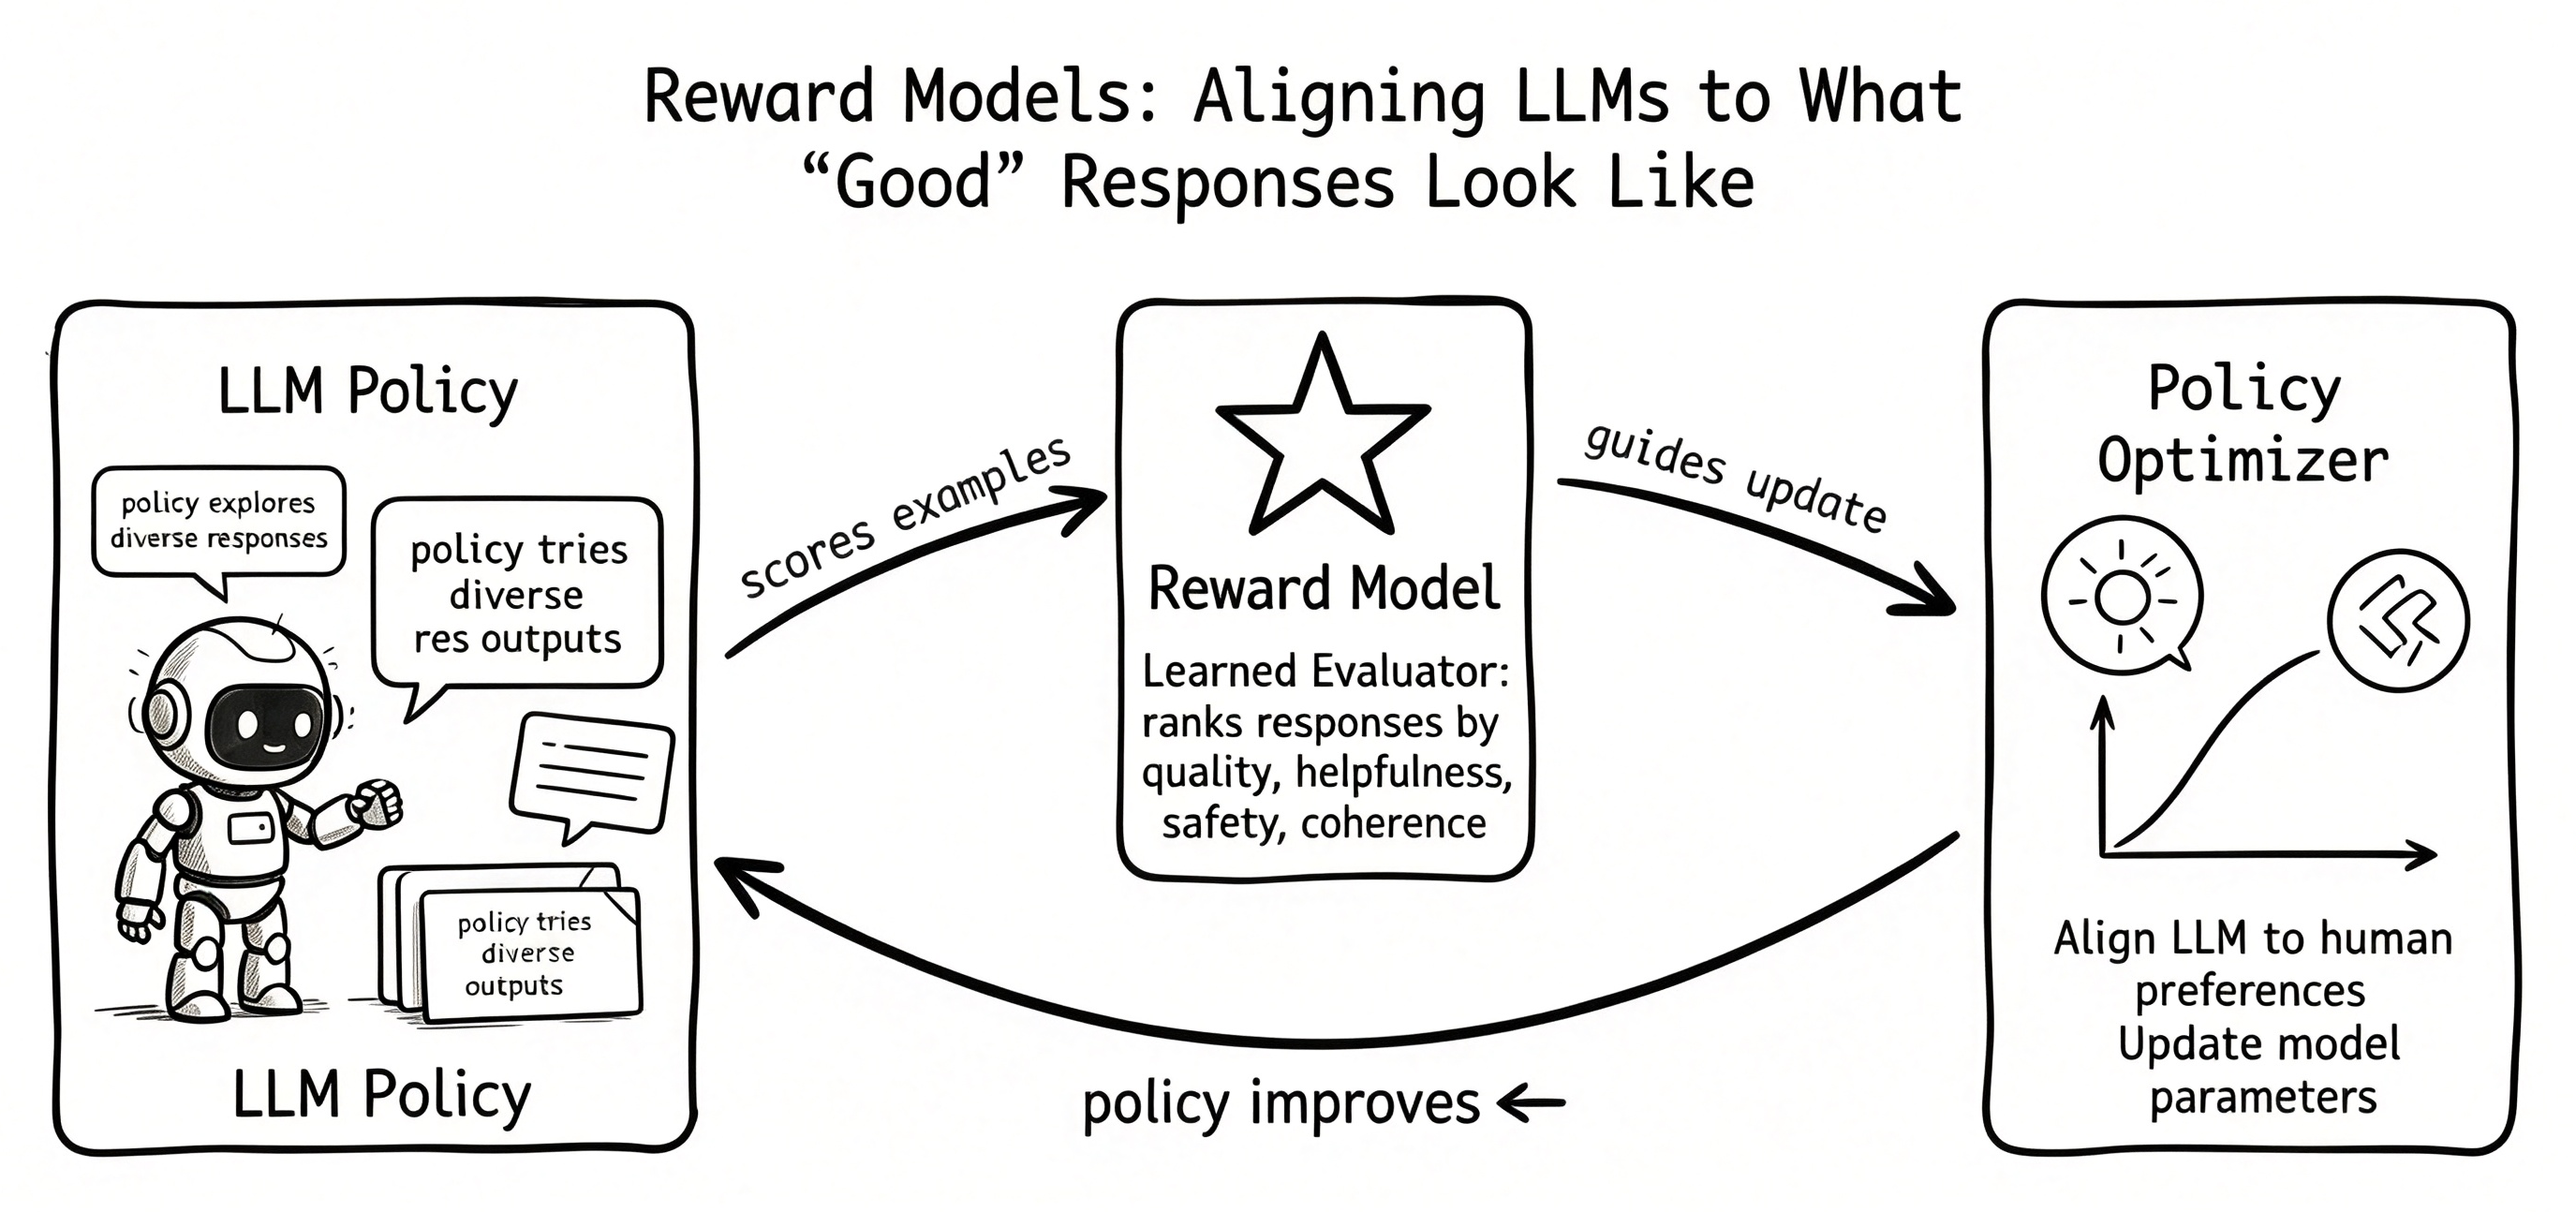
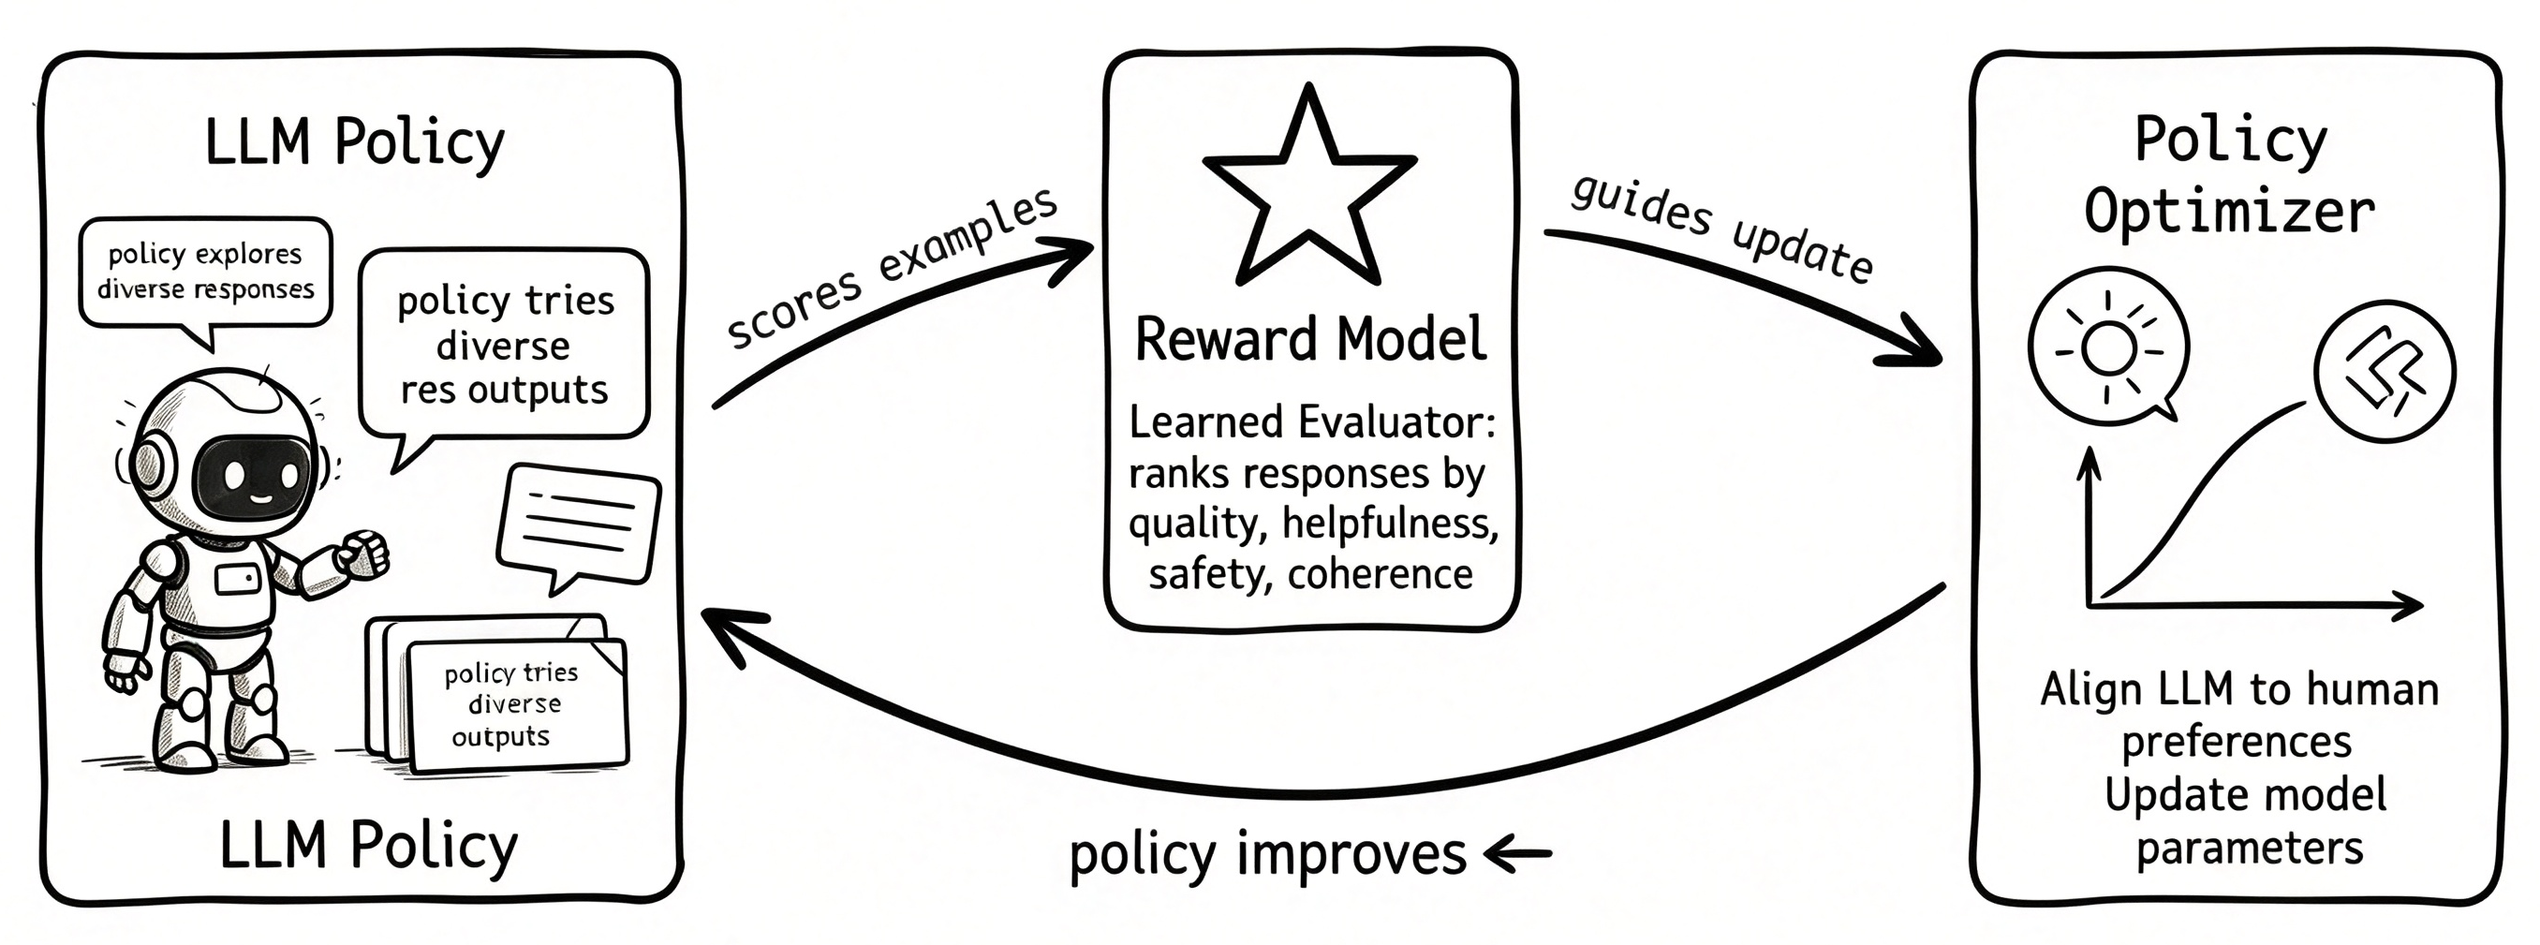
fix

Changed region(s): [[0.0, 0.0307, 0.9912, 0.9832], [0.0619, 0.1229, 0.2168, 0.1843], [0.031, 0.0307, 0.2478, 0.0614]]

diff --git a/index.html b/index.html
@@ -112,11 +112,11 @@ I have led research projects funded by the NSFC, CIE, CAAI and other leading ent
   <div class="research-area-grid">
     <article class="research-area-card research-area-card--evaluation"><div class="research-area-visual"><img src="files/rm2.png" alt="Reward Model diagram"></div><div class="research-area-body"><h3>Reward Model (Evaluation)</h3><p>Learning interpretable and generalizable evaluation signals from human preferences, process feedback, and task objectives to make model training and inference more reliable.</p><div class="research-area-keywords">Preference · Reward · Reliability</div></div></article>
 
-    <article class="research-area-card research-area-card--context"><div class="research-area-visual"><img src="files/ce.png" alt="Context Engineering diagram"></div><div class="research-area-body"><h3>Context Engineering</h3><p>Designing how context, memory, and external knowledge are selected, organized, and dynamically composed so models receive the right state for complex tasks.</p><div class="research-area-keywords">Memory · Retrieval · Orchestration</div></div></article>
+    <article class="research-area-card research-area-card--context"><div class="research-area-visual"><img src="files/ce2.png" alt="Context Engineering diagram"></div><div class="research-area-body"><h3>Context Engineering</h3><p>Designing how context, memory, and external knowledge are selected, organized, and dynamically composed so models receive the right state for complex tasks.</p><div class="research-area-keywords">Memory · Retrieval · Orchestration</div></div></article>
     
     <article class="research-area-card research-area-card--dialogue"><div class="research-area-visual"><img src="files/rm2.png" alt="Long-Horizon Dialogue diagram"></div><div class="research-area-body"><h3>Long-Horizon Dialogue</h3><p>Modeling dialogue across many turns, users and stages, with a focus on long-term memory, goal persistence, state tracking, and consistency in sustained interaction.</p><div class="research-area-keywords">Memory · Planning · Multi-party Conversation</div></div></article>
     
-    <article class="research-area-card research-area-card--evolving"><div class="research-area-visual"><img src="files/ce.png" alt="Self-evolving model diagram"></div><div class="research-area-body"><h3>Self-evolving (RSI)</h3><p>Studying how reflection, feedback, synthetic data, and policy updates can form a controlled and verifiable loop for continuous model improvement.</p><div class="research-area-keywords">Data Evolution · Model Evolution · Harness Evolution</div></div></article>
+    <article class="research-area-card research-area-card--evolving"><div class="research-area-visual"><img src="files/ce2.png" alt="Self-evolving model diagram"></div><div class="research-area-body"><h3>Self-evolving (RSI)</h3><p>Studying how reflection, feedback, synthetic data, and policy updates can form a controlled and verifiable loop for continuous model improvement.</p><div class="research-area-keywords">Data Evolution · Model Evolution · Harness Evolution</div></div></article>
     <!-- <article class="research-area-card research-area-card--multi-party"><div class="research-area-visual" aria-hidden="true"><svg viewBox="0 0 420 150"><circle cx="210" cy="75" r="28"/><circle cx="72" cy="38" r="17"/><circle cx="348" cy="38" r="17"/><circle cx="72" cy="116" r="17"/><circle cx="348" cy="116" r="17"/><path d="M88 45l98 24M332 45l-98 24M88 109l98-24M332 109l-98-24M198 64h24M198 76h24M198 88h14"/></svg></div><div class="research-area-body"><p class="research-area-index">05</p><h3>Multi-party Conversation</h3><p>Understanding roles, information coordination, turn organization, and collaborative reasoning in multi-person and multi-agent conversational environments.</p><div class="research-area-keywords">Roles · Coordination · Collaboration</div></div></article> -->
   </div>
 </section>

diff --git a/publications.html b/publications.html
@@ -7,7 +7,7 @@
   <meta content="text/html; charset=utf-8" http-equiv="Content-Type"/>
   <link href="files/main_style.css" rel="stylesheet" title="wsite-theme-css" type="text/css"/>
   <meta charset="utf-8"/>
-  <meta content="width=device-width, initial-scale=1.0" name="viewport"/>
+  <!-- <meta content="width=device-width, initial-scale=1.0" name="viewport"/> -->
   <!-- <script src="https://cdn.jsdelivr.net/npm/chart.js"></script>
 <style>
 #myBarChart {
